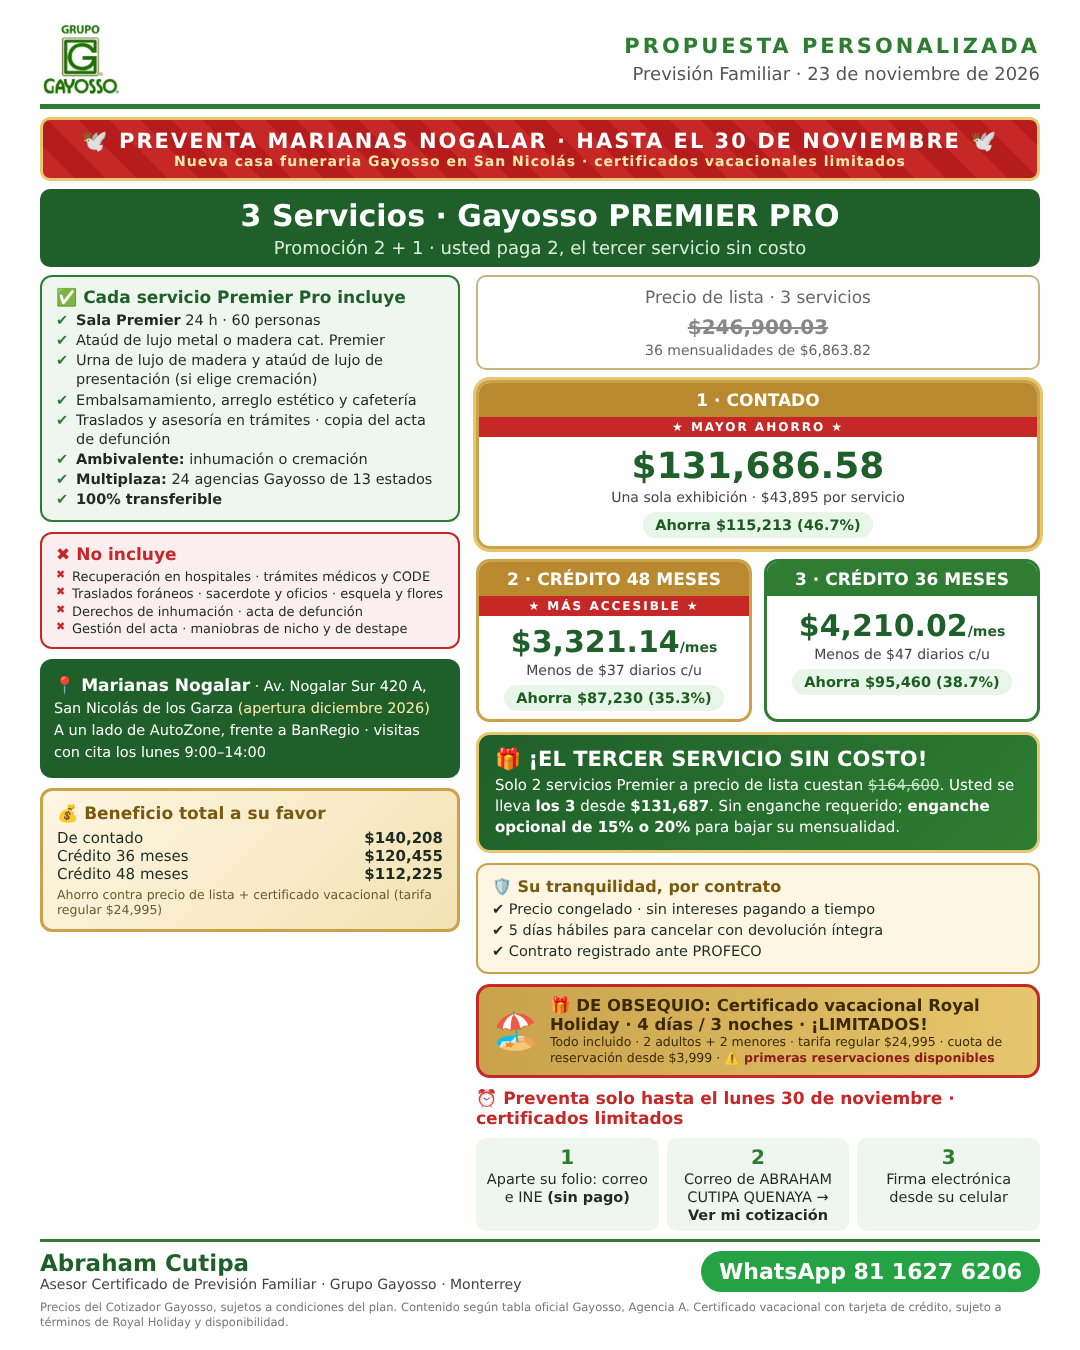
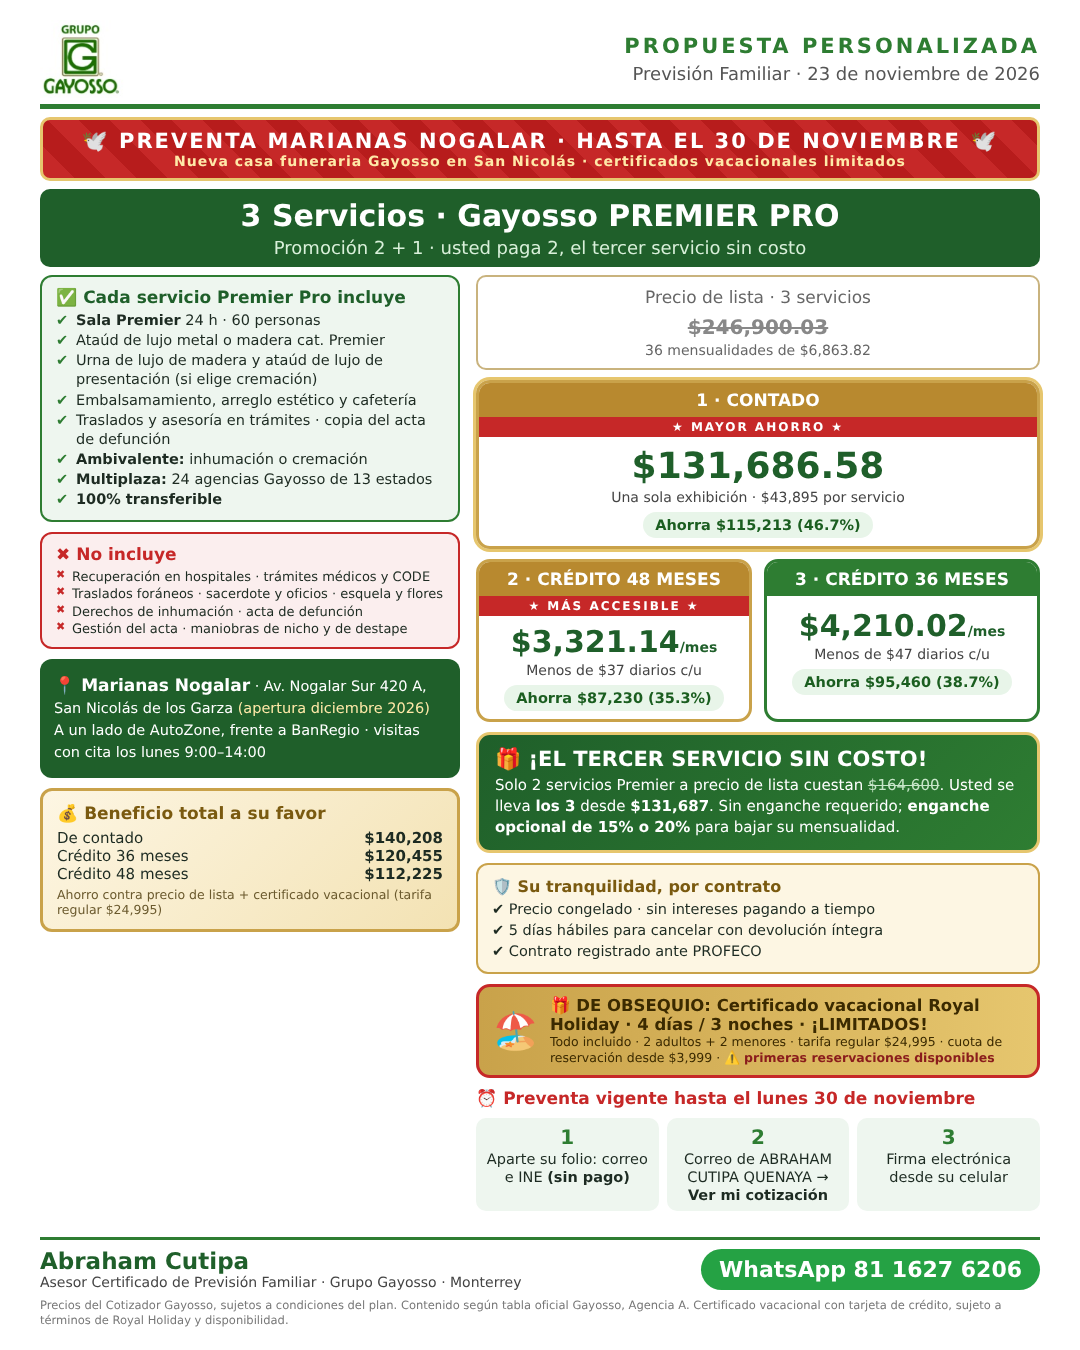
2+1 Nogalar: beneficio total solo con crédito y vigencia en una línea
Claude-Session: https://claude.ai/code/session_01PccRGVGwaaPKDitcWkgoNs

diff --git a/propuesta/universal2mas1_nogalar.html b/propuesta/universal2mas1_nogalar.html
@@ -72,7 +72,7 @@ body{width:1080px;height:1350px;font-family:"DejaVu Sans",Arial,sans-serif;backg
    <li>Derechos de inhumación · acta de defunción</li>
    <li>Gestión del acta · maniobras de nicho y de destape</li></ul></div>
   <div class="box" style="background:#1f5f2a;color:#fff;font-size:14.5px;line-height:1.5;padding:14px"><b style="font-size:17px">📍 Marianas Nogalar</b> · Av. Nogalar Sur 420 A, San Nicolás de los Garza <span style="color:#ffe9a8">(apertura diciembre 2026)</span><br>A un lado de AutoZone, frente a BanRegio · visitas con cita los lunes 9:00–14:00</div>
-  <div class="box" style="background:linear-gradient(135deg,#fdf6e3,#f3e2b3);border:3px solid #c9a24a;padding:12px 14px"><b style="color:#7a5a10;font-size:17px">💰 Beneficio total a su favor</b><div style="display:flex;justify-content:space-between;font-size:15px;margin-top:3px"><span>Tres exhibiciones / contado</span><b>$112,210</b></div><div style="display:flex;justify-content:space-between;font-size:15px;margin-top:3px"><span>Crédito 48 meses</span><b>$91,027</b></div>
+  <div class="box" style="background:linear-gradient(135deg,#fdf6e3,#f3e2b3);border:3px solid #c9a24a;padding:12px 14px"><b style="color:#7a5a10;font-size:17px">💰 Beneficio total a su favor</b><div style="display:flex;justify-content:space-between;font-size:15px;margin-top:3px"><span>Ahorro a 48 meses</span><b>$66,031</b></div><div style="display:flex;justify-content:space-between;font-size:15px;margin-top:3px"><span>Certificado vacacional</span><b>$24,995</b></div><div style="display:flex;justify-content:space-between;font-size:15px;margin-top:3px"><span><b>Total a su favor</b></span><b>$91,026</b></div>
    <div style="font-size:12.5px;color:#6b5a2e;margin-top:4px">Ahorro contra precio de lista + certificado vacacional (tarifa regular $24,995)</div></div>
  </div>
  <div class="right">
@@ -87,7 +87,7 @@ body{width:1080px;height:1350px;font-family:"DejaVu Sans",Arial,sans-serif;backg
   <div class="nicho"><div class="t">🎁 ¡EL TERCER SERVICIO SIN COSTO!</div><div class="s">Solo 2 servicios Universal a precio de lista cuestan <s>$124,600</s>. Usted se lleva <b>los 3</b> desde <b>$99,685</b>. Sin enganche requerido; <b>enganche opcional de 15% o 20%</b> para bajar su mensualidad.</div></div>
   <div class="box" style="background:#fdf6e3;border:2px solid #c9a24a;font-size:14.5px;line-height:1.45"><b style="color:#7a5a10;font-size:16px">🛡 Su tranquilidad, por contrato</b><br>✔ Precio congelado · sin intereses pagando a tiempo<br>✔ 5 días hábiles para cancelar con devolución íntegra<br>✔ Contrato registrado ante PROFECO</div>
   <div class="gift"><div class="i">🏖</div><div><div class="t">🎁 DE OBSEQUIO: Certificado vacacional Royal Holiday · 4 días / 3 noches · ¡LIMITADOS!</div><div class="s">Todo incluido · 2 adultos + 2 menores · tarifa regular $24,995 · cuota de reservación desde $3,999 · <b style="color:#8a1c1c">⚠ primeras reservaciones disponibles</b></div></div></div>
-  <div class="vig">⏰ Preventa solo hasta el lunes 30 de noviembre · certificados limitados</div>
+  <div class="vig">⏰ Preventa vigente hasta el lunes 30 de noviembre</div>
   <div class="steps"><div class="st"><b class="n">1</b>Aparte su folio: correo e INE <b>(sin pago)</b></div><div class="st"><b class="n">2</b>Correo de ABRAHAM CUTIPA QUENAYA → <b>Ver mi cotización</b></div><div class="st"><b class="n">3</b>Firma electrónica desde su celular</div></div>
  </div>
 </div>

diff --git a/propuesta/premier2mas1_nogalar.html b/propuesta/premier2mas1_nogalar.html
@@ -90,7 +90,7 @@ body{width:1080px;height:1350px;font-family:"DejaVu Sans",Arial,sans-serif;backg
   <div class="nicho"><div class="t">🎁 ¡EL TERCER SERVICIO SIN COSTO!</div><div class="s">Solo 2 servicios Premier a precio de lista cuestan <s>$164,600</s>. Usted se lleva <b>los 3</b> desde <b>$131,687</b>. Sin enganche requerido; <b>enganche opcional de 15% o 20%</b> para bajar su mensualidad.</div></div>
   <div class="box" style="background:#fdf6e3;border:2px solid #c9a24a;font-size:14.5px;line-height:1.45"><b style="color:#7a5a10;font-size:16px">🛡 Su tranquilidad, por contrato</b><br>✔ Precio congelado · sin intereses pagando a tiempo<br>✔ 5 días hábiles para cancelar con devolución íntegra<br>✔ Contrato registrado ante PROFECO</div>
   <div class="gift"><div class="i">🏖</div><div><div class="t">🎁 DE OBSEQUIO: Certificado vacacional Royal Holiday · 4 días / 3 noches · ¡LIMITADOS!</div><div class="s">Todo incluido · 2 adultos + 2 menores · tarifa regular $24,995 · cuota de reservación desde $3,999 · <b style="color:#8a1c1c">⚠ primeras reservaciones disponibles</b></div></div></div>
-  <div class="vig">⏰ Preventa solo hasta el lunes 30 de noviembre · certificados limitados</div>
+  <div class="vig">⏰ Preventa vigente hasta el lunes 30 de noviembre</div>
   <div class="steps"><div class="st"><b class="n">1</b>Aparte su folio: correo e INE <b>(sin pago)</b></div><div class="st"><b class="n">2</b>Correo de ABRAHAM CUTIPA QUENAYA → <b>Ver mi cotización</b></div><div class="st"><b class="n">3</b>Firma electrónica desde su celular</div></div>
  </div>
 </div>
